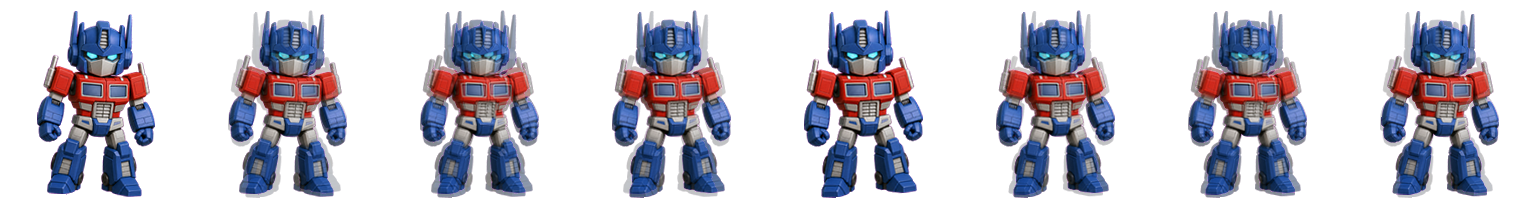
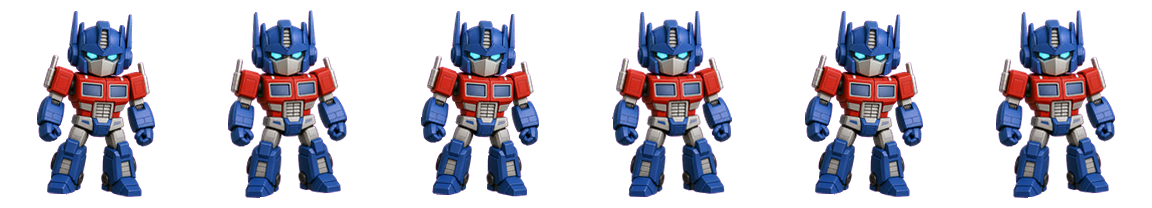
Revert frame interpolation: restore original spritesheet
Alpha blending 插值会产生鬼影（ghosting），因为像素叠加
两个不同姿势产生半透明重叠。回到原始非插值精灵图。

diff --git a/source/floating.html b/source/floating.html
@@ -53,7 +53,7 @@
       height: 208px;
       background-image: url("./assets/spritesheet.webp");
       background-repeat: no-repeat;
-      background-size: 6144px 1872px;
+      background-size: 1536px 1872px;
       transform: translate(-50%, -50%) scale(1.02);
       image-rendering: auto;
       filter: contrast(1.06) saturate(1.04) drop-shadow(0 13px 10px rgba(0, 0, 0, 0.30));
@@ -151,15 +151,15 @@
     const statusEl = document.getElementById("status");
     const spinner = document.getElementById("spinner");
     const states = {
-      idle: { row: 0, frames: 24, fps: 32 },
-      "running-right": { row: 1, frames: 32, fps: 32 },
-      "running-left": { row: 2, frames: 32, fps: 32 },
-      waving: { row: 3, frames: 16, fps: 32 },
-      jumping: { row: 4, frames: 20, fps: 32 },
-      failed: { row: 5, frames: 32, fps: 32 },
-      waiting: { row: 6, frames: 24, fps: 32 },
-      running: { row: 7, frames: 24, fps: 32 },
-      review: { row: 8, frames: 24, fps: 32 },
+      idle: { row: 0, frames: 1, fps: 1 },
+      "running-right": { row: 1, frames: 8, fps: 8 },
+      "running-left": { row: 2, frames: 8, fps: 8 },
+      waving: { row: 3, frames: 4, fps: 8 },
+      jumping: { row: 4, frames: 5, fps: 8 },
+      failed: { row: 5, frames: 8, fps: 8 },
+      waiting: { row: 6, frames: 6, fps: 8 },
+      running: { row: 7, frames: 6, fps: 8 },
+      review: { row: 8, frames: 6, fps: 8 },
     };
 
     let current = "idle";
